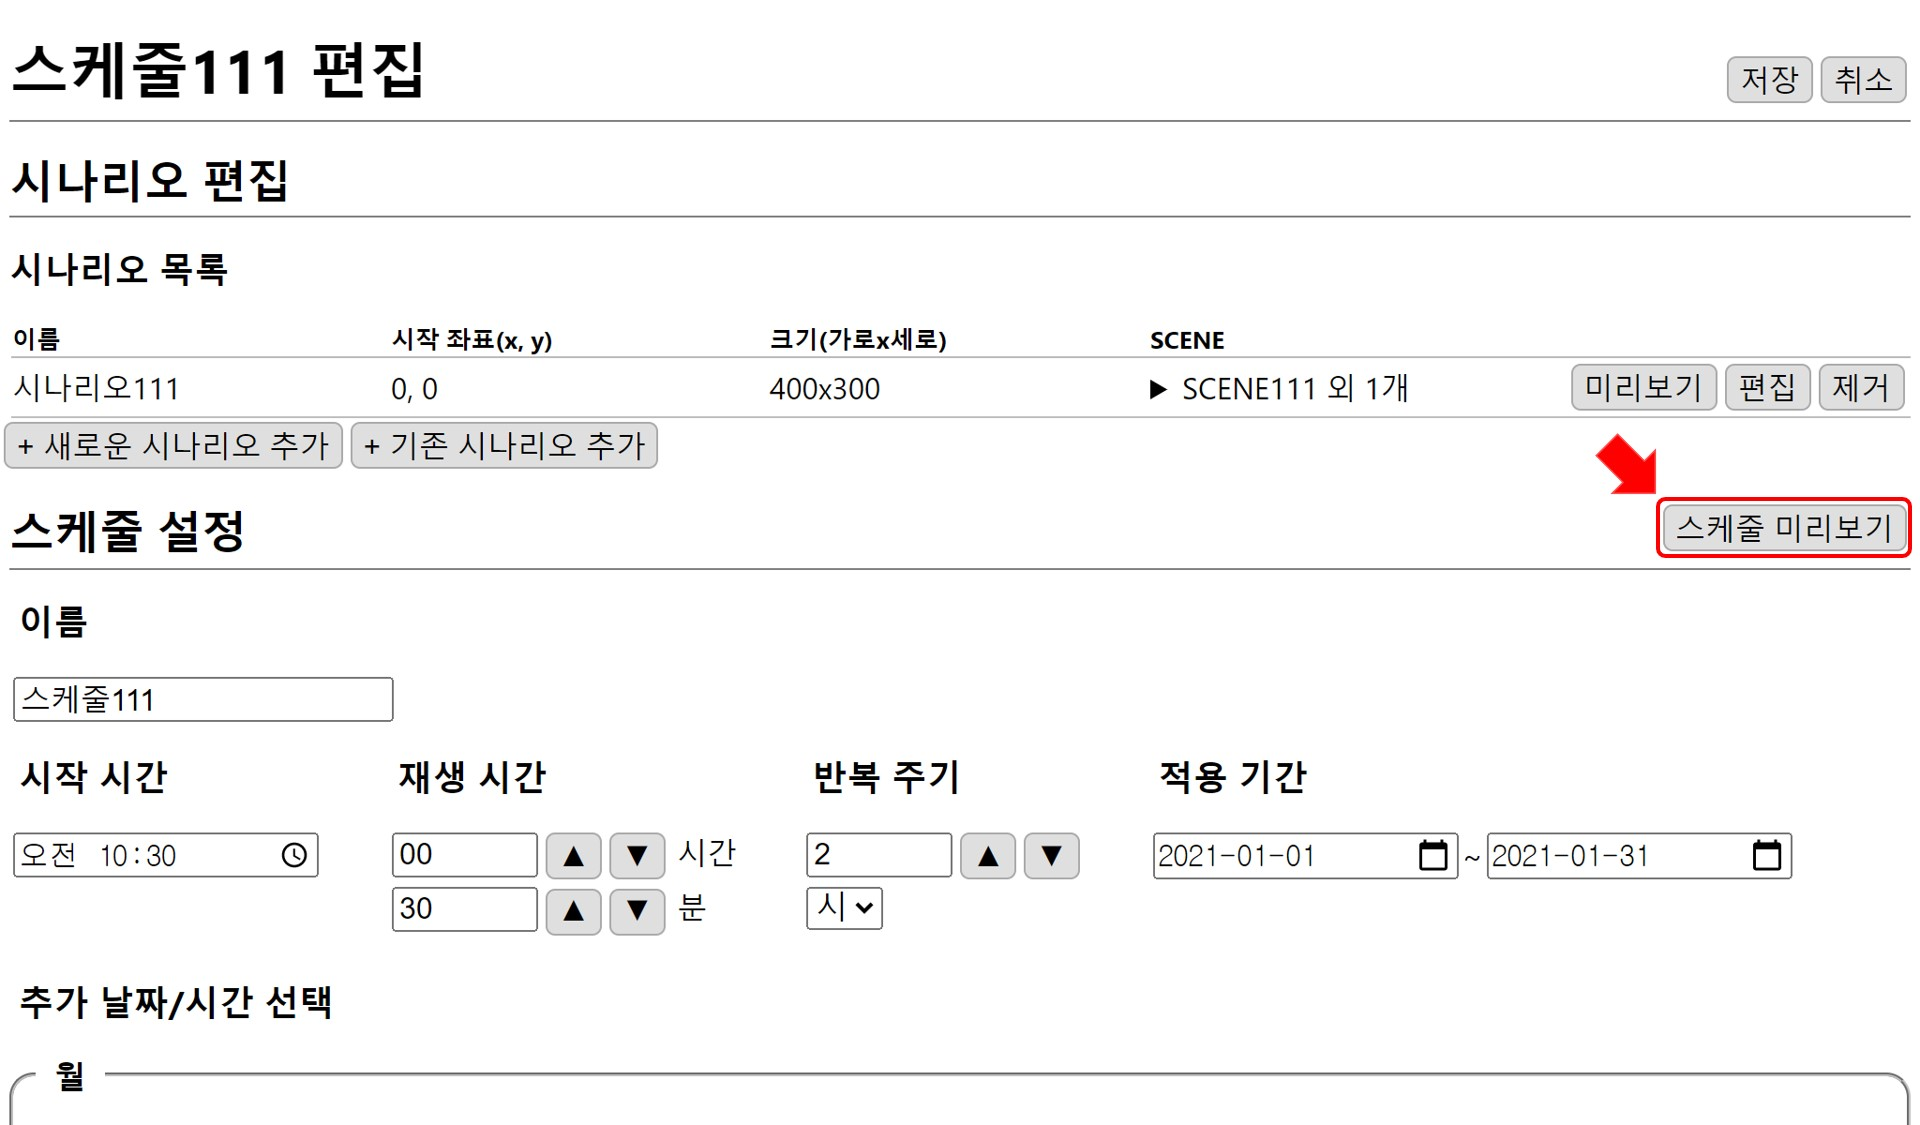
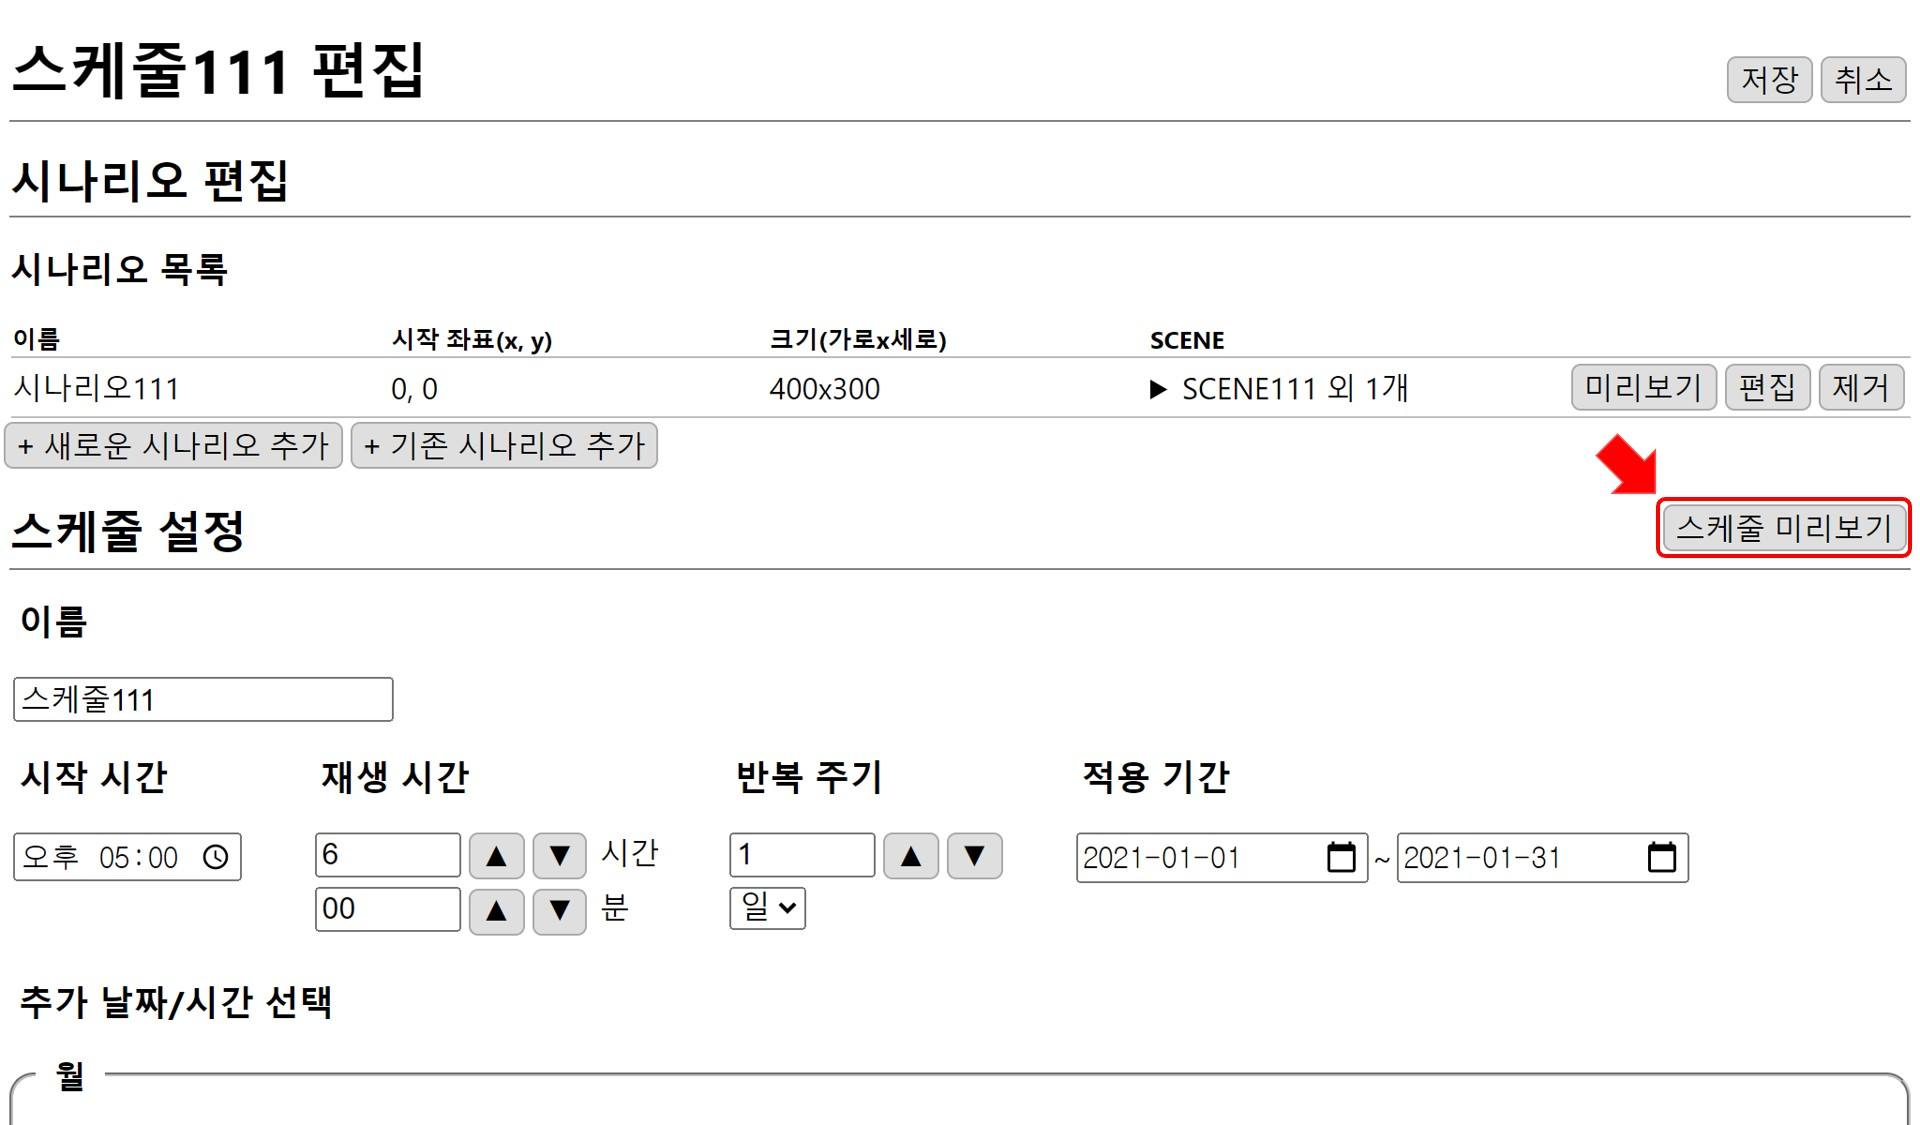
Update

Changed region(s): [[0.0, 0.6533, 0.875, 0.84], [0.5625, 0.6533, 0.6875, 0.7156], [0.9062, 0.7467, 0.9375, 0.7778]]

diff --git a/start/schedule.md b/start/schedule.md
@@ -1,8 +1,7 @@
 # 스케줄 만들기
 MFPlayer의 연출은 시나리오를 조합해 스케줄에 설정된 시간에 따라 재생됩니다.
-스케줄을 설정하는 예제를 통해 재생해보도록 하겠습니다.
 
-*스케줄 전체 기능 설명 보다 매일 오후 5시 ~ 11시에 재생되는 스케줄 작성 예제로 바꾸고 상세 설명은 스케줄 상세 목록으로 이동*
+2021년 1월 동안 매일 오후 5시 ~ 11시에 재생되는 스케줄 예제를 작성해 보겠습니다.
 
 ## 스케줄 추가
 편집 창의 홈 화면에서 `스케줄 추가` 버튼을 클릭합니다.
@@ -26,50 +25,34 @@ MFPlayer의 연출은 시나리오를 조합해 스케줄에 설정된 시간에
 
 <img src="./img/schedule/setSchedule.jpg" style="border: 1px solid"/>
 
-### 1. 스케줄 이름
-스케줄 이름은 랜덤으로 설정되기 때문에(편집 화면에서 수정 가능 합니다.) 예시 그림의 이름과 다를 수 있습니다.
+### 1. 시작 시간
+시작시간을 오후 5:00 으로 설정합니다.
 
-### 2. 시작 시간
-스케줄이 처음으로 시작되는 시간을 설정합니다.
+### 2. 재생 시간
+시나리오가 재생되는 시간을  `▲` `▼` 버튼을 이용해 1시간, 1분 단위로 조절 가능합니다.
+오후 11:00 까지 재생하기 위해 **6시간**으로 설정합니다.
 
-### 3. 재생 시간
-시나리오가 재생되는 시간을  `▲` `▼` 버튼을 이용해 1시간, 1분 단위로 조절합니다.  
-
-### 4. 반복 주기
+### 3. 반복 주기
 주기에 맞춰 첫 시나리오부터 순서대로 재생됩니다.
-반복 주기는  `▲` `▼` 버튼을 이용해 조절할 수 있고 단위로 **일**, **주**, **시**, **분**, **월**, **년**을 사용할 수 있습니다.
+반복 주기는`▲` `▼` 버튼을 이용해 숫자를 조절할 수 있고 매일 재생을 위해 **1일**로 설정합니다.
 
-### 5. 적용 기간
-날짜 단위로 스케줄이 적용되는 기간을 선택할 수 있습니다. 
+### 4. 적용 기간
+1월 동안 재생하기 위해 2021-01-01 ~ 2021-01-31로 설정합니다.
 
-### 6. 추가 날짜/시간 선택
-날짜와 시간을 선택해 추가할 수 있고 선택된 것은 다른 색으로 표시됩니다.
-설정된 스케줄과 추가된 날짜와 시간이 겹칠 때 실행되고 시나리오가 재생됩니다.
-
-### 스케줄 미리보기
+## 스케줄 미리보기
 `스케줄 미리보기` 버튼을 누르면 현재 설정된 스케줄을 확인할 수 있습니다.
 
 <img src="./img/schedule/previewSchedule.jpg" style="border: 1px solid"/>
 
-### 스케줄 이해
+매일 오후 5시에 스케줄이 실행되는 것을 확인할 수 있습니다.
 
-추가 날짜/시간을 선택하지 않았을 때 스케줄을 확인하면 2021년 1월 1일 오전 10시 30분을 시작으로 2021년 1월 31일까지 2시간을 주기로 30분 동안 시나리오가 재생됩니다.
-
-<img src="./img/schedule/schedule1.jpg" style="border: 1px solid"/>
-<img src="./img/schedule/previewSchedule1.jpg" style="border: 1px solid"/>
-
-추가 날짜/시간을 선택하면 설정된 스케줄 안의 범위에서 추가된 10일, 20일, 8시, 18시, 0분, 30분과 겹칠 때만 스케줄이 실행된다는 것을 확인할 수 있습니다.
-
-<img src="./img/schedule/schedule2.jpg" style="border: 1px solid"/>
-<img src="./img/schedule/previewSchedule2.jpg" style="border: 1px solid"/>
-
-원하는 형태의 연출이 될 때까지 **편집-스케줄 미리보기** 를 통해 반복적으로 빠른 **수정-확인** 작업이 가능합니다.
+<img src="./img/schedule/schedule.jpg" style="border: 1px solid"/>
 
 ## 스케줄 저장
 `저장` 버튼을 눌러 스케줄을 저장합니다.
 
 <img src="./img/schedule/saveSchedule.jpg" style="border: 1px solid"/>
 
-스케줄 목록에 스케줄이 추가된 것을 확인할 수 있습니다.
+스케줄 목록에 매일 오후 5시부터 6시간 동안 실행되는 스케줄이 추가된 것을 확인할 수 있습니다.
 
 <img src="./img/schedule/scheduleList.jpg" style="border: 1px solid"/>

diff --git a/start/scenario.md b/start/scenario.md
@@ -1,41 +1,27 @@
 # 시나리오 설정하기
-시나리오의 기본 설정 방법 예제입니다.
-
-*재생 시간과 순서 변경에 대한 설명만 하고 나머지 내용은 scenario 목록으로 이동 필요*
+시나리오의 기본 재생을 설정하는 예제입니다.
 
 ## 시나리오 설정
-<img src="./img/scenario/setScenario.jpg" style="border: 1px solid"/>
 
-### 1. 재생 시간
+### 재생 시간
 SCENE의 재생 시간을  `▲` `▼` 버튼을 이용해 0.1 초 단위로 조절합니다.  
 한 개 SCENE을 최소 0.5초, 최대 86400초(24시간)으로 설정할 수 있습니다.
 
-### 2. 시나리오 이름 
-시나리오 이름은 랜덤으로 설정되기 때문에(편집 화면에서 수정 가능 합니다.) 예시 그림의 이름과 다를 수 있습니다.
+<img src="./img/scenario/playTime.jpg" style="border: 1px solid"/>
 
-### 3. 재생 화면 위치
-왼쪽 위 모서리(0,0)를 기준으로 (x,y) 좌표를 설정할 수 있습니다.
-
-### 4. 재생 화면 크기
-시나리오에서 SCENE이 재생될 크기를 설정합니다.
-
-### 5. 밝기
-시나리오의 전체 밝기를 설정합니다.
-
-### 6. 재생 순서
-*재생 순서 변경 설명 필요*
+### 재생 순서 
+SCENE의 재생 순서는 **SCENE 목록**에 추가된 순서이고 `↑` `↓` 버튼을 이용해 변경할 수 있습니다. 
 
 ## 시나리오 미리보기
-SCENE 목록 설정 순서대로 재생됩니다.
-
 시나리오 편집 완료 후 `미리보기` 버튼을 누르면 재생 화면이 나타나 편집 결과를 확인할 수 있습니다.
 `미리보기 정지` 버튼을 누르면 재생 화면이 닫힙니다.
 
 <img src="./img/scenario/previewScenario.jpg" style="border: 1px solid"/>
 
-## 단독 재생
+시나리오에 설정된 상태로 먼저 **SCENE111**이 **5초**동안 재생되고 그다음**SCENE222**이 **5초**동안 재생됩니다.
 
-홈 화면의 목록에서 `단독 재생` 버튼을 누르면 편집창이 닫히고, 시나리오의 첫 번째 SCENE이 재생되기 시작합니다.
+## 단독 재생
+홈 화면의 목록에서 `단독 재생` 버튼을 누르면 편집창이 닫히고, 시나리오가 재생되기 시작합니다.
 
 <img src="./img/gradient/playScenario.jpg" style="border: 1px solid"/>
 

diff --git a/scene/icon.md b/scene/icon.md
@@ -1,0 +1,44 @@
+# 이미지 흐름
+편집창은 **링크**, **SCENE 설정**, **아이콘 선택** 으로 구성되어 있습니다.
+
+<img src="./img/icon/sceneEditor.jpg" style="border: 1px solid"/>
+
+## SCENE 설정
+
+<img src="./img/icon/editScene.jpg" style="border: 1px solid"/>
+
+### 1. 연출 이름
+이름은 랜덤으로 설정되기 때문에(편집 화면에서 수정 가능합니다.) 예시 그림의 이름과 다를 수 있습니다.
+
+### 2. 연출 타입 선택
+아이콘 연출을 위해 이미지 흐름으로 선택합니다.
+
+### 3. 흐름 타입 선택
+아이콘이 흐르는 방향은 **대각선**, **오른쪽**, **왼쪽**, **위**, **아래** 중 선택할 수 있습니다.
+
+### 4. 배경 색상
+재생 화면의 배경 색상을 선택합니다.
+
+### 5. 도형 색상 타입 선택, 이미지 색상
+**랜덤**, **고정** 중 선택할 수 있고 고정으로 바꾸게 이미지 색상 탭이 나타나 색상을 선택할 수 있습니다.
+
+<img src="./img/icon/iconColor.jpg" style="border: 1px solid"/>
+
+### 6. 개수
+재생 화면에 표시할 아이콘의 개수를 선택할 수 있고 최소 1개, 최대 100개로 설정 가능합니다.
+
+### 7. 크기 타입 선택, 크기
+아이콘의 크기를 결정하고 **랜덤**, **고정** 중 선택할 수 있습니다.
+* 랜덤: 크기의 값에 비례한 범위 안에서 랜덤으로 설정됩니다
+* 고정: 전체 크기가가 고정됩니다.
+
+### 8. 속도 타입 선택, 속도
+아이콘의 속도를 결정하고 **랜덤**, **고정**, **크기 비례** 중 선택할 수 있습니다.
+* 랜덤: 속도의 값에 비례한 범위 안에서 랜덤으로 설정됩니다.
+* 고정: 전체 속도가 고정됩니다.
+* 크기 비례 : 속도의 값에 비례한 범위 안에서 크기가 커질수록 속도가 빨라집니다.
+
+## 아이콘 선택
+여러가지 아이콘중 선택한 아이콘은 색상이 변하게됩니다.
+
+<img src="./img/icon/selectIcon.jpg" style="border: 1px solid"/>

diff --git a/scene/gradient.md b/scene/gradient.md
@@ -1,0 +1,37 @@
+# 색상 흐름
+편집창은 **링크**, **SCENE 설정**, **색상 설정**으로 구성되어 있습니다.
+
+<img src="./img/gradient/sceneEditor.jpg" style="border: 1px solid"/>
+
+## SCENE 설정
+
+<img src="./img/gradient/editScene.jpg" style="border: 1px solid"/>
+
+### 1. 연출 이름
+이름은 랜덤으로 설정되기 때문에(편집 화면에서 수정 가능합니다.) 예시 그림의 이름과 다를 수 있습니다.
+
+### 2. 연출 타입 선택
+색상 연출을 위해 색상 흐름으로 선택합니다.
+
+### 3. 흐름 타입 선택
+색상이 흐르는 방향은 **오른쪽**, **왼쪽**, **위**, **아래** 중 선택할 수 있습니다.
+
+### 4. 속도
+색상이 흐르는 속도를 설정할 수 있습니다.
+
+## 색상 설정
+
+<img src="./img/gradient/editColor.jpg" style="border: 1px solid"/>
+
+### 1. 추가
+새로운 색상은 선택된 색상 앞으로 추가되므로 추가하고 싶은 곳의 바로 뒤 색상을 선택하고 `추가`버튼을 누릅니다.
+
+* 예시:  빨강 선택 ->  추가 -> 노랑 선택
+
+<img src="./img/gradient/addYellow.jpg" style="border: 1px solid"/>
+
+### 2. 변경
+변경하고 싶은 색상을 선택한 뒤 `변경`버튼을 누르고 원하는 색상으로 변경합니다.
+
+### 3. 삭제
+선택된 색상이 삭제됩니다.

diff --git a/start/gradientRight.md b/start/gradientRight.md
@@ -3,7 +3,7 @@
 원 대각선 흐름을 만들었던 시나리오에 색상 흐름 SCENE 을 더하는 방법을 통해 시나리오 기본 작성 방법을 소개하겠습니다.
 시나리오는 아래의 편집 과정을 거쳐 원이 대각선으로 흐르는 연출 이후에 색상 흐름 연출로 이어지는 동작을 수행하게 됩니다.
 
-*시간에 따라 SCENE 이 바뀌는 시나리오 동작에 대한 그림 추가 필요*
+<img src="./img/gradient/addGradientRight.jpg" />
 
 ## 색상 흐름 연출
 색상이 흐름 연출은 선택한 색상들이 점진적으로 연결되어 반복 형태로 흐르는 연출입니다.

diff --git a/start/circleDiagonal.md b/start/circleDiagonal.md
@@ -30,7 +30,7 @@ SCENE 설정 화면은 아래와 같습니다.
 
 ### 연출 타입 선택
 MFPlayer 의 기본 연출 타입을 선택합니다.
-**파일 재생**, **이미지 흐름**, **색상 흐름** 의 연출 타입이 있습니다.
+**영상 파일**, **이미지 흐름**, **색상 흐름** 의 연출 타입이 있습니다.
 아이콘을 설정하기 위해서 `이미지 흐름`을 선택합니다.
 
 <img src="./img/icon/setScene.jpg" style="border: 1px solid"/>

diff --git a/control/setting.md b/control/setting.md
@@ -1,0 +1,10 @@
+# 제어창
+
+### 1. 재생 화면
+선택한 시나리오에 저장된 화면이 재생됩니다.
+
+### 2. 재생
+**스케줄 재생**, **시나리오 재생** 을 표시해 지금 재생되는 타입을 나타냅니다. 현재는 시나리오의 단독 재생 버튼을 누른 상태이므로 시나리오 재생이 표시됩니다.
+
+### 3. 현재 재생중인 이름
+재생 중인 시나리오의 이름이 표시됩니다.

diff --git a/scene/README.md b/scene/README.md
@@ -1,0 +1,14 @@
+# SCENE
+
+SCENE은 MFPlayer 연출의 가장 최소 단위로서 MFPlayer는 SCENE으로 구성된 시나리오를 재생합니다.
+
+## SCENE 타입
+
+### 이미지 흐름
+아이콘의 흐름을 연출합니다.
+
+### 영상 파일
+영상 파일을 선택해 재생합니다.
+
+### 색상 흐름
+색상 흐름을 연출합니다.

diff --git a/scene/video.md b/scene/video.md
@@ -1,0 +1,1 @@
+# 영상 파일
